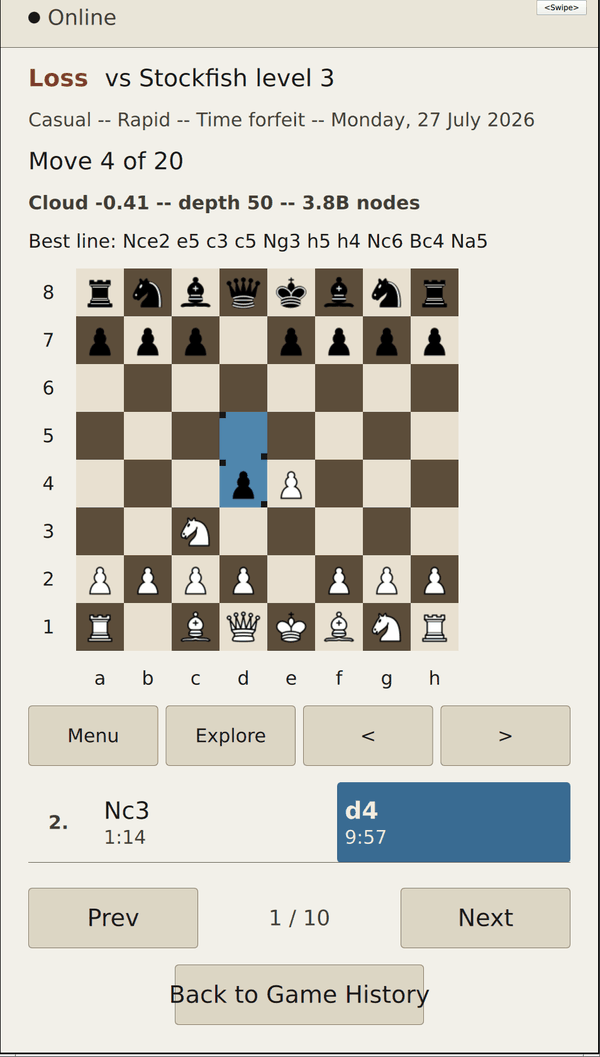
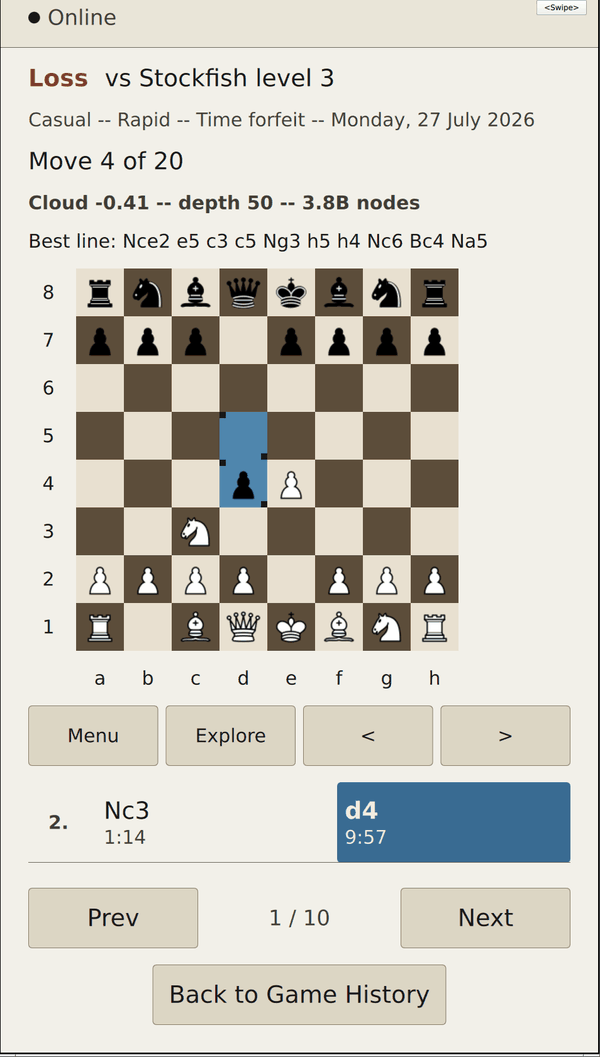
Stop bottom nav buttons clipping their own label
Five screens set an explicit width on the bottom AppButton, which overrode
AppButton's content-fitting width with a fixed textFieldWidthMedium (396px).
"Back to Game History" needs ~464px at the compact font, so its label rendered
outside the button background on both sides.

AppButton now exposes naturalWidth, and each of those call sites uses it as a
floor while still capping at the available page width. The four review
screenshots are recaptured against the fix.

Changed region(s): [[0.69, 0.9054, 0.75, 0.9678], [0.24, 0.9054, 0.3, 0.9678]]

diff --git a/frontend/ui/AppButton.qml b/frontend/ui/AppButton.qml
@@ -23,13 +23,17 @@ QQC2.Button {
     bottomPadding: control.compact ? theme.spacingXs : theme.buttonPaddingV
     leftPadding: control.compact ? theme.spacingSmall : theme.buttonPaddingH
     rightPadding: control.compact ? theme.spacingSmall : theme.buttonPaddingH
+    // Width the label actually needs. Call sites that override `width` must
+    // keep this as their floor, or the text renders outside the background.
+    readonly property real naturalWidth: contentItem.implicitWidth + leftPadding + rightPadding
+
     // Real height/width, not implicitHeight/implicitWidth: Control's C++
     // side recomputes implicit size from contentItem+padding on its own and
     // silently clears any QML binding on it, throwing away this floor.
     height: control.compact
         ? theme.touchTarget
         : Math.max(contentItem.implicitHeight + topPadding + bottomPadding, theme.buttonMinHeight)
-    width: Math.max(contentItem.implicitWidth + leftPadding + rightPadding, theme.touchTarget * 2)
+    width: Math.max(control.naturalWidth, theme.touchTarget * 2)
 
     background: Rectangle {
         radius: theme.cardRadius

diff --git a/frontend/ui/GameReviewScreen.qml b/frontend/ui/GameReviewScreen.qml
@@ -896,7 +896,8 @@ Rectangle {
         anchors.bottom: parent.bottom
         anchors.horizontalCenter: parent.horizontalCenter
         anchors.bottomMargin: theme.pageSideMargin
-        width: Math.min(parent.width - theme.pageSideMargin * 2, theme.textFieldWidthMedium)
+        width: Math.min(parent.width - theme.pageSideMargin * 2,
+                        Math.max(theme.textFieldWidthMedium, naturalWidth))
         compact: true
         text: "Back to Game History"
         onClicked: gameReviewScreen.navigateTo("GameHistoryScreen.qml")

diff --git a/frontend/ui/GameHistoryScreen.qml b/frontend/ui/GameHistoryScreen.qml
@@ -144,7 +144,8 @@ Rectangle {
         anchors.bottom: parent.bottom
         anchors.horizontalCenter: parent.horizontalCenter
         anchors.bottomMargin: theme.pageSideMargin
-        width: Math.min(parent.width - theme.pageSideMargin * 2, theme.textFieldWidthMedium)
+        width: Math.min(parent.width - theme.pageSideMargin * 2,
+                        Math.max(theme.textFieldWidthMedium, naturalWidth))
         compact: true
         text: "Back to Home"
         onClicked: gameHistoryScreen.navigateTo("HomeScreen.qml")

diff --git a/frontend/ui/SettingsScreen.qml b/frontend/ui/SettingsScreen.qml
@@ -52,7 +52,8 @@ Rectangle {
         anchors.bottom: parent.bottom
         anchors.horizontalCenter: parent.horizontalCenter
         anchors.bottomMargin: theme.pageSideMargin
-        width: Math.min(parent.width - theme.pageSideMargin * 2, theme.textFieldWidthMedium)
+        width: Math.min(parent.width - theme.pageSideMargin * 2,
+                        Math.max(theme.textFieldWidthMedium, naturalWidth))
         compact: true
         text: "Back to Home"
         onClicked: settingsScreen.navigateTo("HomeScreen.qml")

diff --git a/frontend/ui/BoardScreen.qml b/frontend/ui/BoardScreen.qml
@@ -1369,7 +1369,8 @@ Rectangle {
         anchors.bottom: parent.bottom
         anchors.horizontalCenter: parent.horizontalCenter
         anchors.bottomMargin: theme.pageSideMargin
-        width: Math.min(parent.width - theme.pageSideMargin * 2, theme.textFieldWidthMedium)
+        width: Math.min(parent.width - theme.pageSideMargin * 2,
+                        Math.max(theme.textFieldWidthMedium, naturalWidth))
         compact: true
         text: "Back to Home"
         visible: boardScreen.canNavigateHome

diff --git a/frontend/ui/SeekScreen.qml b/frontend/ui/SeekScreen.qml
@@ -29,7 +29,8 @@ Rectangle {
         anchors.bottom: parent.bottom
         anchors.horizontalCenter: parent.horizontalCenter
         anchors.bottomMargin: theme.pageSideMargin
-        width: Math.min(parent.width - theme.pageSideMargin * 2, theme.textFieldWidthMedium)
+        width: Math.min(parent.width - theme.pageSideMargin * 2,
+                        Math.max(theme.textFieldWidthMedium, naturalWidth))
         compact: true
         text: "Back to Home"
         onClicked: {
